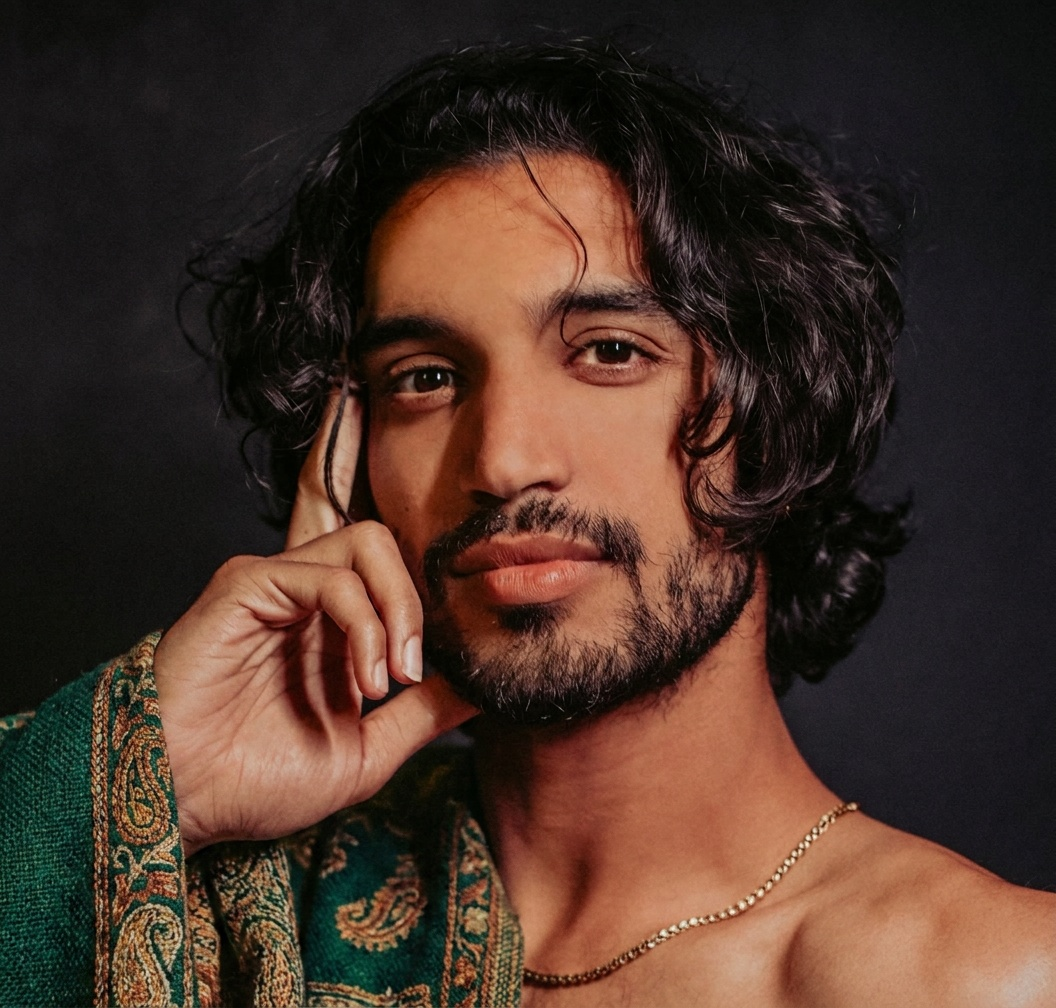
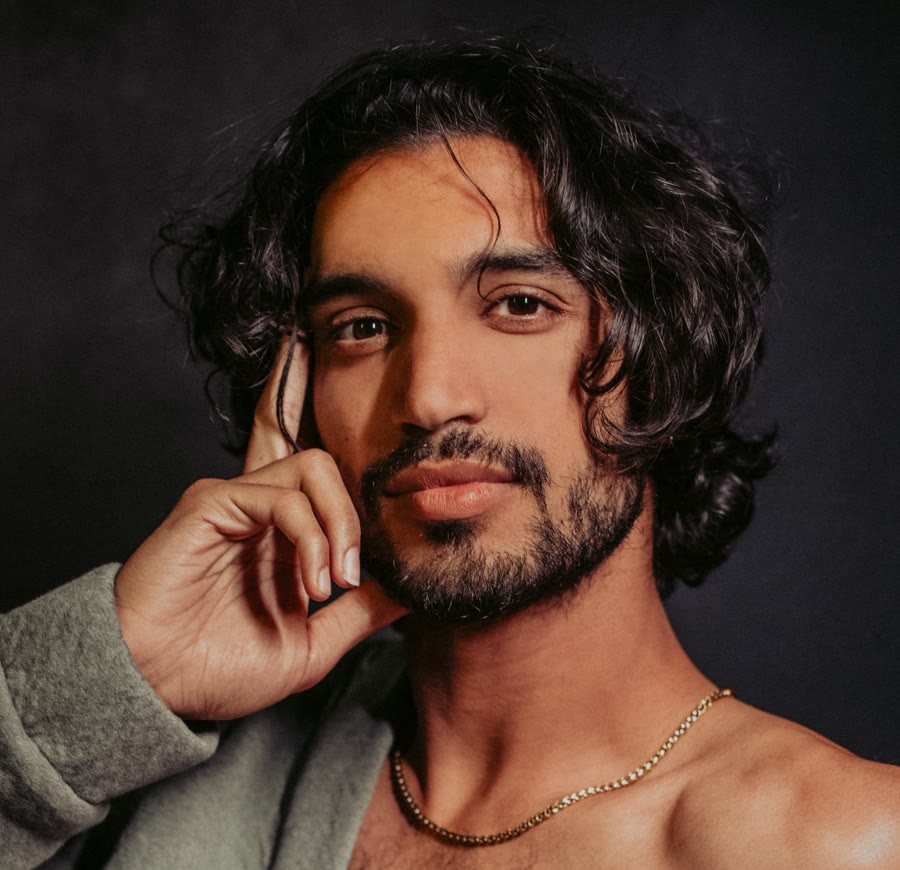
ivrahim-listen: original hero at 440px, vertical wordmark gradient, artist links, look as its own section

diff --git a/ivrahim-listen/index.html b/ivrahim-listen/index.html
@@ -65,7 +65,9 @@
     font-family:var(--wordmark);font-weight:300;
     font-size:clamp(56px,12vw,140px);line-height:.92;
     letter-spacing:.09em;text-transform:uppercase;
-    color:var(--char);
+    background:linear-gradient(180deg,#1C1917 0%,#1C1917 48%,#4E3620 82%,#7A5733 100%);
+    -webkit-background-clip:text;background-clip:text;
+    -webkit-text-fill-color:transparent;color:var(--char);
     margin-bottom:34px;
   }
   .tagline{
@@ -79,8 +81,8 @@
     font-family:var(--text);font-size:11px;letter-spacing:.22em;
     text-transform:uppercase;color:var(--mute);
   }
-  .heroband{background:var(--bone);padding:0 0 96px;}
-  .heroshot{width:100%;max-width:1000px;height:auto;display:block;}
+  .heroband{background:var(--bone);padding:0 0 88px;}
+  .heroshot{width:100%;max-width:440px;height:auto;display:block;}
 
   /* ---- player ---- */
   .seed-note{
@@ -134,13 +136,10 @@
   .node{fill:var(--bronze);}
 
   /* ---- wave ---- */
-  .strip{display:grid;grid-template-columns:repeat(auto-fill,minmax(190px,1fr));gap:16px;margin-top:34px;}
+  .strip{display:grid;grid-template-columns:repeat(auto-fill,minmax(215px,1fr));gap:14px;margin-top:30px;}
   .strip figure{margin:0;}
-  .strip img{width:100%;height:250px;object-fit:cover;display:block;}
-  .strip figcaption{
-    font-family:var(--text);font-size:11.5px;font-weight:400;letter-spacing:.16em;
-    text-transform:uppercase;color:var(--peach);margin-top:11px;
-  }
+  .strip img{width:100%;height:290px;object-fit:cover;display:block;}
+  
   .wave-list{margin-top:30px;}
   .wl{display:flex;gap:18px;align-items:baseline;padding:12px 0;border-bottom:1px solid var(--hair);}
   .dark .wl{border-bottom-color:var(--hair-dark);}
@@ -148,32 +147,46 @@
   .wl .a{width:250px;flex-shrink:0;font-family:var(--text);font-size:12.5px;letter-spacing:.14em;text-transform:uppercase;}
   .wl .b{flex:1;font-size:15px;color:var(--mute);}
   .dark .wl .b{color:var(--on-dark-mute);}
+  .wl .lk{flex-shrink:0;display:flex;gap:14px;}
+  .wl .lk a{
+    font-family:var(--text);font-size:11px;letter-spacing:.14em;text-transform:uppercase;
+    color:var(--bronze);text-decoration:none;border-bottom:1px solid transparent;
+  }
+  .dark .wl .lk a{color:var(--peach);}
+  .wl .lk a:hover{border-bottom-color:currentColor;}
 
   /* ---- asks ---- */
   .asks{display:grid;grid-template-columns:repeat(auto-fit,minmax(230px,1fr));gap:26px;margin-top:34px;}
-  .ask{padding-top:18px;border-top:2px solid var(--peach);}
+  .ask{padding-top:18px;border-top:2px solid var(--bronze);}
+  .dark .ask{border-top-color:var(--peach);}
   .ask h3{
     font-family:var(--display);font-weight:700;font-size:20px;letter-spacing:0;
-    text-transform:none;color:var(--peach);margin-bottom:8px;
+    text-transform:none;color:var(--char);margin-bottom:8px;
   }
-  .ask p{font-size:15px;color:var(--on-dark-mute);margin:0;}
+  .ask h3{}
+  .dark .ask h3{color:var(--peach);}
+  .ask p{font-size:15px;color:var(--mute);margin:0;}
+  .dark .ask p{color:var(--on-dark-mute);}
 
   .pull{
-    border-left:2px solid var(--peach);padding:6px 0 6px 26px;
+    border-left:2px solid var(--bronze);padding:6px 0 6px 26px;
     font-family:var(--display);font-size:24px;line-height:1.4;
-    color:var(--peach);margin:34px 0 0;max-width:50ch;
+    color:var(--char);margin:34px 0 0;max-width:50ch;
   }
+  .dark .pull{border-left-color:var(--peach);color:var(--peach);}
 
   .cta{
     display:inline-block;margin-top:14px;padding:16px 34px;
-    background:var(--peach);color:var(--char);text-decoration:none;
+    background:var(--bronze);color:var(--bone);text-decoration:none;
     font-family:var(--text);font-size:12px;letter-spacing:.2em;text-transform:uppercase;
     transition:background .22s ease;
   }
-  .cta:hover{background:var(--coppergold);}
+  .cta:hover{background:var(--copper);}
+  .dark .cta{background:var(--peach);color:var(--char);}
+  .dark .cta:hover{background:var(--coppergold);}
 
-  footer{background:var(--bone);color:var(--mute);padding:56px 0;font-size:13px;}
-  footer a{color:var(--bronze);}
+  footer{background:var(--char);color:var(--on-dark-mute);padding:56px 0;font-size:13px;}
+  footer a{color:var(--peach);}
 
   @media (max-width:768px){
     body{font-size:16px;}
@@ -187,7 +200,7 @@
     .t-time{display:none;}
     .wl{flex-direction:column;gap:2px;}
     .wl .a{width:auto;}
-    .strip img{height:200px;}
+    .strip img{height:230px;}
     .pull{font-size:20px;padding-left:18px;}
 
   }
@@ -354,30 +367,37 @@
       <p>These are not sound-alikes. They are the room I think this belongs in.</p>
     </div>
     <div class="wave-list">
-      <div class="wl"><div class="a">Aksharu</div><div class="b">Indian, ancestral material made genuinely cool</div></div>
-      <div class="wl"><div class="a">Arc De Soleil</div><div class="b">groovy, mostly instrumental</div></div>
-      <div class="wl"><div class="a">Curtain Blue</div><div class="b">recent find, squarely in this lane</div></div>
-      <div class="wl"><div class="a">Glass Beams</div><div class="b">the same move, masked and instrumental</div></div>
-      <div class="wl"><div class="a">Arooj Aftab</div><div class="b">inherited poetry over contemporary production</div></div>
-      <div class="wl"><div class="a">Ali Sethi &amp; Nicol&aacute;s Jaar</div><div class="b">the furthest along, and the method reference</div></div>
-      <div class="wl"><div class="a">FaceSoul &middot; Chantress Seba</div><div class="b">channeling, and proof it travels</div></div>
+      <div class="wl"><div class="a">Aksharu</div><div class="b">Indian, ancestral material made genuinely cool</div><div class="lk"><a href="https://open.spotify.com/search/Aksharu" target="_blank" rel="noopener">Spotify</a><a href="https://www.instagram.com/explore/search/keyword/?q=Aksharu" target="_blank" rel="noopener">Instagram</a></div></div>
+      <div class="wl"><div class="a">Arc De Soleil</div><div class="b">groovy, mostly instrumental</div><div class="lk"><a href="https://open.spotify.com/search/Arc%20De%20Soleil" target="_blank" rel="noopener">Spotify</a><a href="https://www.instagram.com/explore/search/keyword/?q=Arc%20De%20Soleil" target="_blank" rel="noopener">Instagram</a></div></div>
+      <div class="wl"><div class="a">Curtain Blue</div><div class="b">recent find, squarely in this lane</div><div class="lk"><a href="https://open.spotify.com/search/Curtain%20Blue" target="_blank" rel="noopener">Spotify</a><a href="https://www.instagram.com/explore/search/keyword/?q=Curtain%20Blue" target="_blank" rel="noopener">Instagram</a></div></div>
+      <div class="wl"><div class="a">Glass Beams</div><div class="b">the same move, masked and instrumental</div><div class="lk"><a href="https://open.spotify.com/search/Glass%20Beams" target="_blank" rel="noopener">Spotify</a><a href="https://www.instagram.com/explore/search/keyword/?q=Glass%20Beams" target="_blank" rel="noopener">Instagram</a></div></div>
+      <div class="wl"><div class="a">Arooj Aftab</div><div class="b">inherited poetry over contemporary production</div><div class="lk"><a href="https://open.spotify.com/search/Arooj%20Aftab" target="_blank" rel="noopener">Spotify</a><a href="https://www.instagram.com/explore/search/keyword/?q=Arooj%20Aftab" target="_blank" rel="noopener">Instagram</a></div></div>
+      <div class="wl"><div class="a">Ali Sethi &amp; Nicol&aacute;s Jaar</div><div class="b">the furthest along, and the method reference</div><div class="lk"><a href="https://open.spotify.com/search/Ali%20Sethi" target="_blank" rel="noopener">Spotify</a><a href="https://www.instagram.com/explore/search/keyword/?q=Ali%20Sethi" target="_blank" rel="noopener">Instagram</a></div></div>
+      <div class="wl"><div class="a">FaceSoul</div><div class="b">channeling</div><div class="lk"><a href="https://open.spotify.com/search/FaceSoul" target="_blank" rel="noopener">Spotify</a><a href="https://www.instagram.com/explore/search/keyword/?q=FaceSoul" target="_blank" rel="noopener">Instagram</a></div></div>
+      <div class="wl"><div class="a">Chantress Seba</div><div class="b">proof that spiritual music travels</div><div class="lk"><a href="https://open.spotify.com/search/Chantress%20Seba" target="_blank" rel="noopener">Spotify</a><a href="https://www.instagram.com/explore/search/keyword/?q=Chantress%20Seba" target="_blank" rel="noopener">Instagram</a></div></div>
     </div>
-
-    <div class="strip" style="margin-top:48px">
-      <figure><img src="img/ref-3.jpg" alt="Reference: Ali Sethi"><figcaption>Ali Sethi</figcaption></figure>
-      <figure><img src="img/ref-1.jpg" alt="Reference: Prince"><figcaption>Prince</figcaption></figure>
-      <figure><img src="img/ref-5.jpg" alt="Reference: Arc De Soleil"><figcaption>Arc De Soleil</figcaption></figure>
-      <figure><img src="img/ref-2.jpg" alt="Reference: Prince"><figcaption>Prince</figcaption></figure>
-      <figure><img src="img/ref-6.jpg" alt="Reference: Arc De Soleil"><figcaption>Arc De Soleil</figcaption></figure>
-      <figure><img src="img/ref-4.jpg" alt="Reference: Ali Sethi"><figcaption>Ali Sethi</figcaption></figure>
-      <figure><img src="img/ref-7.jpg" alt="Reference: Arc De Soleil"><figcaption>Arc De Soleil</figcaption></figure>
-      <figure><img src="img/ref-9.jpg" alt="Reference: Arc De Soleil"><figcaption>Arc De Soleil</figcaption></figure>
-    </div>
-    <p style="margin-top:22px;font-size:14px;color:var(--on-dark-mute)">Other people's photographs, collected as reference. Not Ivrahim, and not shot for this. They are here because they say the look faster than I can write it.</p>
   </div>
 </section>
 
 <section>
+  <div class="wrap">
+    <div class="eyebrow">The look</div>
+    <h2>Where this is pointed</h2>
+    <div class="narrow"><p>Other people’s photographs, collected as reference. Not Ivrahim, not shot for this. They are here because they say it faster than I can write it.</p></div>
+    <div class="strip">
+      <figure><img src="img/ref-3.jpg" alt="Reference: Ali Sethi"></figure>
+      <figure><img src="img/ref-1.jpg" alt="Reference: Prince"></figure>
+      <figure><img src="img/ref-5.jpg" alt="Reference: Arc De Soleil"></figure>
+      <figure><img src="img/ref-2.jpg" alt="Reference: Prince"></figure>
+      <figure><img src="img/ref-6.jpg" alt="Reference: Arc De Soleil"></figure>
+      <figure><img src="img/ref-4.jpg" alt="Reference: Ali Sethi"></figure>
+      <figure><img src="img/ref-7.jpg" alt="Reference: Arc De Soleil"></figure>
+      <figure><img src="img/ref-9.jpg" alt="Reference: Arc De Soleil"></figure>
+    </div>
+  </div>
+</section>
+
+<section class="dark">
   <div class="wrap">
     <div class="eyebrow">Straight up</div>
     <h2>What does not exist yet</h2>
@@ -389,7 +409,7 @@
   </div>
 </section>
 
-<section class="dark">
+<section>
   <div class="wrap">
     <div class="eyebrow">The ask</div>
     <h2>I am looking for people to build this with</h2>
